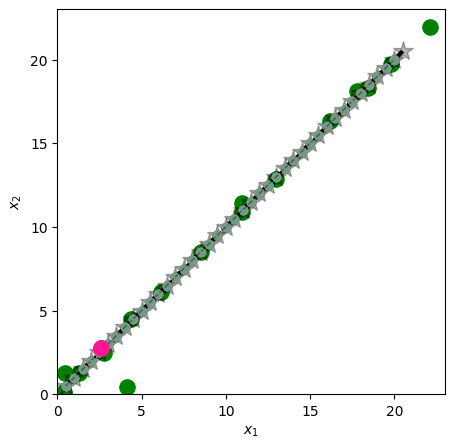
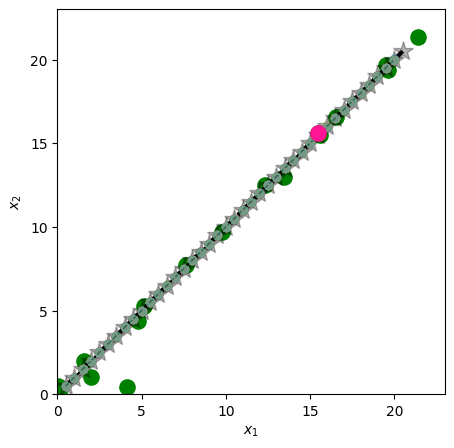
its working but is very slow, before we fix

diff --git a/project_name/main_test.py b/project_name/main_test.py
@@ -179,13 +179,10 @@ true_path, _ = algo.run_algorithm_on_f(f)
 
 def create_gp_models(output_dims):  # TODO can we vmap this ever?
     """Create multiple single-output GP models."""
-    gps = []
-    for _ in range(output_dims):
-        mean = gpjax.mean_functions.Zero()
-        kernel = gpjax.kernels.RBF(active_dims=[0, 1], lengthscale=jnp.array([10.0, 8.0]), variance=25.0)  # TODO make this more general
-        prior = gpjax.gps.Prior(mean_function=mean, kernel=kernel)
-        gps.append(prior)
-    return gps
+    mean = gpjax.mean_functions.Zero()
+    kernel = gpjax.kernels.RBF(active_dims=[0, 1], lengthscale=jnp.array([10.0, 8.0]), variance=25.0)  # TODO make this more general
+    prior = gpjax.gps.Prior(mean_function=mean, kernel=kernel)
+    return [prior for _ in range(output_dims)]
 
 def return_optimised_posterior(data: gpjax.Dataset, prior: gpjax.gps.Prior, key) -> gpjax.gps.AbstractPosterior:
     # Our function is noise-free, so we set the observation noise's standard deviation to a very small value
@@ -204,40 +201,6 @@ def return_optimised_posterior(data: gpjax.Dataset, prior: gpjax.gps.Prior, key)
     return opt_posterior
 
 def sample_and_optimize_posterior(optimized_posteriors, D, key, lower_bound, upper_bound, num_samples=20):
-    """Sample from posteriors and optimize."""
-    # samples = []
-    # for gp_idx, posterior in enumerate(optimized_posteriors):
-    #     key, _key = jr.split(key)
-    #     data = gpjax.Dataset(X=D.X, y=jnp.expand_dims(D.y[:, gp_idx], axis=-1))
-    #     sample_func = posterior.sample_approx(num_samples=num_samples, train_data=data, key=_key, num_features=500)
-    #     samples.append(sample_func)
-    #
-    # # do it for 40 steps
-    # def _env_step(x_init_O, unused):
-    #     x_init_1O = jnp.expand_dims(x_init_O, axis=0)
-    #     y_1_NB = samples[0](x_init_1O)
-    #     y_2_NB = samples[1](x_init_1O)
-    #
-    #     y_tot_1O = jnp.concatenate((y_1_NB, y_2_NB), axis=-1)
-    #
-    #     next_x_1O = x_init_1O + y_tot_1O  # TODO still only does one step predictions can we draw multi-step samples quickly using pathwise stuff? I guess not as GP is homoskedastic?
-    #     next_x_1O = jnp.clip(next_x_1O, jnp.array((domain[0][0], domain[1][0])), jnp.array((domain[0][1], domain[1][1])))
-    #     path = ExPath(x_init_1O, y_tot_1O)
-    #
-    #     return jnp.squeeze(next_x_1O, axis=0), path
-    #
-    # vmapped_step = jax.vmap(_env_step, in_axes=(0, None), out_axes=0)
-    #
-    # def _create_exe_path(positions, unused):
-    #     next_positions, path_info = vmapped_step(positions, None)
-    #     return next_positions, path_info
-    #
-    # init_x = jnp.tile(jnp.expand_dims(jnp.array((0.5, 0.5)), axis=0), (num_samples, 1))
-    # # init_x = jnp.expand_dims(jnp.array((0.5, 0.5)), axis=0)
-    # _, exe_path = jax.lax.scan(_create_exe_path, init_x, None, 40)
-    # exe_path = jax.tree_util.tree_map(lambda x: jnp.swapaxes(x, 0, 1), exe_path)
-
-    # Function to apply a sample function at a specific point
     def apply_sample_func(posterior, gp_idx, sample_key, x):
         data = gpjax.Dataset(X=D.X, y=jnp.expand_dims(D.y[:, gp_idx], axis=-1))
         sample_func = posterior.sample_approx(num_samples=1, train_data=data, key=sample_key, num_features=500)
@@ -286,21 +249,12 @@ def optimise_sample(optimized_posteriors, D, key, lower_bound, upper_bound, exe_
     key, _key = jr.split(key)
     initial_sample_points = jr.uniform(_key, shape=(num_initial_sample_points, lower_bound.shape[0]), dtype=jnp.float64,
                                        minval=lower_bound, maxval=upper_bound)
-    # initial_sample_y = sample(initial_sample_points)
 
-    # TODO add the acquisition function thing here basically
-    # Grab the posterior mus and covariance for each GP
+    # the acquisting function thing is here
     predictive_mus = []
     predictive_stds = []
-    for gp_idx, posterior in enumerate(optimized_posteriors):
-        data = gpjax.Dataset(X=D.X, y=jnp.expand_dims(D.y[:, gp_idx], axis=-1))
-        latent_dist = posterior.predict(initial_sample_points, train_data=data)
-        predictive_dist = posterior.likelihood(latent_dist)
-
-        predictive_mean = predictive_dist.mean()  # TODO should this be predictive or should it be just posterior, if latter then do we need the points?
-        predictive_std = predictive_dist.stddev()
-        predictive_mus.append(predictive_mean)
-        predictive_stds.append(predictive_std)
+    sample_mus = []
+    sample_stds = []
 
     # TODO can we vmap this?
     def test_vmap(collected_data_x, collected_data_y, exe_path_x, exe_path_y, posterior, initial_sample_points):
@@ -316,21 +270,19 @@ def optimise_sample(optimized_posteriors, D, key, lower_bound, upper_bound, exe_
 
         return sample_mean, sample_std
 
-    # comb_x = jnp.concatenate((D.X, exe_path_x))  # TODO D should expand as we gain more data per step
-    # comb_y = jnp.concatenate((D.y, exe_path_y))
-
-    sample_mus = []
-    sample_stds = []
     for gp_idx, posterior in enumerate(optimized_posteriors):
-        sample_mean, sample_std = jax.vmap(test_vmap, in_axes=(None, None, 0, 0, None, None))(D.X, jnp.expand_dims(D.y[:, gp_idx], axis=-1), exe_path_x, np.expand_dims(exe_path_y[:, :, gp_idx], axis=-1), posterior, initial_sample_points)
-        #
-        # data = gpjax.Dataset(X=comb_x, y=jnp.expand_dims(comb_y[:, gp_idx], axis=-1))
-        # latent_dist = posterior.predict(initial_sample_points, train_data=data)
-        # predictive_dist = posterior.likelihood(latent_dist)
+        data = gpjax.Dataset(X=D.X, y=jnp.expand_dims(D.y[:, gp_idx], axis=-1))
+        latent_dist = posterior.predict(initial_sample_points, train_data=data)
+        predictive_dist = posterior.likelihood(latent_dist)
 
-        # sample_mean = predictive_dist.mean()  # TODO should this be predictive or should it be just posterior, if latter then do we need the points?
-        # sample_std = predictive_dist.stddev()
+        predictive_mean = predictive_dist.mean()  # TODO should this be predictive or should it be just posterior, if latter then do we need the points?
+        predictive_std = predictive_dist.stddev()
+        predictive_mus.append(predictive_mean)
+        predictive_stds.append(predictive_std)
 
+        sample_mean, sample_std = jax.vmap(test_vmap, in_axes=(None, None, 0, 0, None, None))(D.X, jnp.expand_dims(
+            D.y[:, gp_idx], axis=-1), exe_path_x, np.expand_dims(exe_path_y[:, :, gp_idx], axis=-1), posterior,
+                                                                                              initial_sample_points)
         sample_mus.append(sample_mean)
         sample_stds.append(sample_std)
 
@@ -338,10 +290,8 @@ def optimise_sample(optimized_posteriors, D, key, lower_bound, upper_bound, exe_
         def entropy_given_normal_std_list(std_list):
             return jnp.log(std_list) + jnp.log(jnp.sqrt(2 * jnp.pi)) + 0.5  # TODO check if correct std or var
         h_post = jnp.sum(entropy_given_normal_std_list(jnp.array(predictive)), axis=0)
-
         h_sample = jnp.mean(jnp.sum(entropy_given_normal_std_list(jnp.array(sample)), axis=0), axis=0)
-
-        acq_exe = h_post - h_sample  # TODO add in the sample average
+        acq_exe = h_post - h_sample
 
         return acq_exe
 
@@ -367,8 +317,8 @@ upper_bound = jnp.array([domain[0][1], domain[1][1]])
 n_init_data = 1
 bo_iters = 25
 
-init_x = jnp.array(((4.146202844165692, 0.44793055421536542),))  # jnp.array(unif_random_sample_domain(domain, n_init_data))
-init_y = jnp.array(((0.5, 0.5),))  # jnp.array([step_northwest(xi) for xi in init_x])  # TODO hard coded to test
+init_x = jnp.array(unif_random_sample_domain(domain, n_init_data))
+init_y = jnp.array([step_northwest(xi) for xi in init_x])
 
 D = gpjax.Dataset(X=init_x, y=init_y)
 output_dims = 2  # TODO can change this for later
@@ -398,7 +348,7 @@ for i in range(bo_iters):
 
     # Plot true path and posterior path samples
     plot_path_2d(true_path, ax, true_path=True)
-    for path in exe_path_list:  # TODO until we batch it and it becomes a list
+    for path in exe_path_list:
         plot_path_2d_jax(path, ax)
 
     # Plot observations
